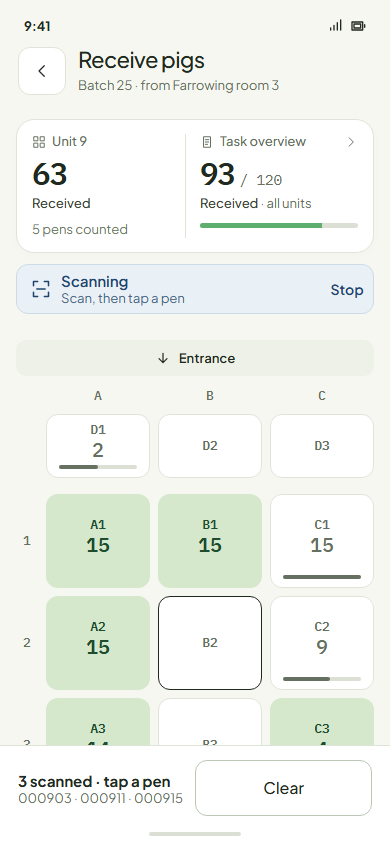
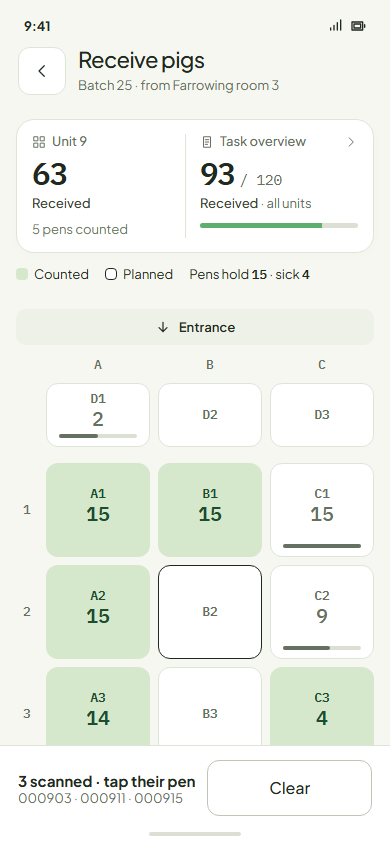
Count: receiving Scan is owned by the footer, as Farrowing's Scan page (Stop scanning; with reads, the count, the tags and Clear); no scan bar over the map

diff --git a/features/count/PRD.md b/features/count/PRD.md
@@ -31,7 +31,7 @@ Reviewed on the Claude Design canvas ([canvas.md](canvas.md)). Ruled and redrawn
 - **Recount is the unit's, with a balance sheet** (owner, 2026-11-03; supersedes the per-pen Review count). *Recount · Unit 7* lists the unit's pens, each with what was found or *Not counted yet*; tapping a pen opens the pen count (all pigs, then ear tags by search or scan), whose *Done* returns to the list. *Count* on a pen page opens the same recount, straight into that pen. *Finish recount* shows the **unit balance sheet**: on record against counted; pigs found in another pen, which move; pigs without ear tags netted pen against pen (D4 −1, D5 +1: balanced), so pigs moved and not updated, or piglets shuffled between pens, stop being losses; and only what the unit can't account for (000803, found in no pen) goes on the batch's balancing sheet. *Save recount*. ([mock 10](mock/mock-10-unit-recount.png), [11](mock/mock-11-unit-balance.png).)
 - **A recount that changes nothing just saves; the balance sheet opens only when the unit's total changed** (owner, 2026-11-03). It is one ledger card in the owner's order: *Counted 60* at the top; each change a door with its signed figure in a tonal tile (*Found from other units +2*, *Not found −1*, the one amber, to the balancing sheet); *On record 59* at the bottom ([11](mock/mock-11-unit-balance.png); each line opens its pigs: [11b](mock/mock-11b-found.png), [11c](mock/mock-11c-not-found.png)). Pigs without ear tags counted in a different pen of the unit than recorded are normal work: the pens are updated and nothing is said. **The recount is drawn on the unit's pen map** (owner: "we should use pen view"): counted pens turn done-green with their count; a pen with pigs still to count shows what the record says; an empty pen says *Empty*; any pen can be counted, an empty one too; a pen not counted when you finish keeps its record (the footer says so: *D5 not counted · Keeps 38 if you finish*) ([10](mock/mock-10-unit-recount.png)).
 - **The pen count asks two questions** (owner, 2026-11-03: titles are questions): *How many pigs are in D4?* (the stepper), then *Which tagged pigs are here?* with *4 found* beside it (search or scan, ticked rows).
-- **Receiving is two parts: the plan, then the count** (owner, 2026-11-03; supersedes receiving pen by pen). *Receive pigs* is a task page like Farrowing's room (owner, 2026-11-03): one header, the task card (this unit's *Received* on the left; *Task overview ›* on the right, across units, where the crew switches unit and ends the task, as in every task). Below, the unit's pen map, drawn from its Farm layout on PenMap (PR 307: Unit 9 is three lanes of four weaner pens with three sick pens by the door, met first; a sick pen's tile is shorter, as its pen is): capacity is said once per pen type (*Pens hold 15 · sick 4*); an empty pen shows only its code; a pen with pigs shows how many and, until it is counted, a fill line for how full it is (owner, 2026-11-03: *9/15* on every tile was an information explosion); the planned pens are outlined, a suggestion only (no number per pen, nothing owed to a pen); pigs may go into any pen. Nothing is recorded while pigs are moving. Once they are in, tap any pen to count it (all pigs, then ear tags); a counted pen turns done-green, a pen off the plan too. What was counted is where the pigs are. *Scan* in the dock keeps the map on screen: scan one pig or a batch, they gather in the footer (*3 scanned · tap a pen*), and tapping a pen puts them in it; this is how sows arrive, each in whichever crate or pen she reached ([14s](mock/mock-14s-receive-scan.png), [14t](mock/mock-14t-receive-placed.png); [13](mock/mock-13-receive-plan.png), [14](mock/mock-14-receive-count.png), [12](mock/mock-12-receive-pen.png)). The map tile showing pigs and a fill line, outlined when planned, is a proposed PenMap variant (*room*). **Pigs to move is the source room's pen map, and a glance** (owner, 2026-11-03: the crew looks once and puts the phone away; no *Receive in Unit 9* button, the move out records nothing; where to on top; a pen that empties says *All*, a pen moving some says *12/13* with the 12 that move big (no icon, no key, no list of pigs that stay); the whole flow is proposed in [transfer-flow.md](transfer-flow.md)): a pen whose pigs all go shows the move glyph (not a tick, which reads as done); a pen sending some shows *12/13*; tapping it opens the pen with a toggle, *Move · 12* and *Stay · 1* ([9](mock/mock-9-transfer-out.png), [9b](mock/mock-9b-pen-move.png), [9c](mock/mock-9c-pen-stay.png)).
+- **Receiving is two parts: the plan, then the count** (owner, 2026-11-03; supersedes receiving pen by pen). *Receive pigs* is a task page like Farrowing's room (owner, 2026-11-03): one header, the task card (this unit's *Received* on the left; *Task overview ›* on the right, across units, where the crew switches unit and ends the task, as in every task). Below, the unit's pen map, drawn from its Farm layout on PenMap (PR 307: Unit 9 is three lanes of four weaner pens with three sick pens by the door, met first; a sick pen's tile is shorter, as its pen is): capacity is said once per pen type (*Pens hold 15 · sick 4*); an empty pen shows only its code; a pen with pigs shows how many and, until it is counted, a fill line for how full it is (owner, 2026-11-03: *9/15* on every tile was an information explosion); the planned pens are outlined, a suggestion only (no number per pen, nothing owed to a pen); pigs may go into any pen. Nothing is recorded while pigs are moving. Once they are in, tap any pen to count it (all pigs, then ear tags); a counted pen turns done-green, a pen off the plan too. What was counted is where the pigs are. *Scan* in the dock keeps the map on screen and the footer takes over, as on Farrowing's Scan page (owner, 2026-11-03: the control stays where Scan was, no scan bar at the top): *Stop scanning* while listening; scan one pig or a batch and the footer is the count and their tags with *Clear* (*3 scanned · tap their pen*); tapping a pen puts them in it (*3 pigs put in B2*) and the footer is *Stop scanning* again; this is how sows arrive, each in whichever crate or pen she reached ([14s](mock/mock-14s-receive-scan.png), [14t](mock/mock-14t-receive-placed.png); [13](mock/mock-13-receive-plan.png), [14](mock/mock-14-receive-count.png), [12](mock/mock-12-receive-pen.png)). The map tile showing pigs and a fill line, outlined when planned, is a proposed PenMap variant (*room*). **Pigs to move is the source room's pen map, and a glance** (owner, 2026-11-03: the crew looks once and puts the phone away; no *Receive in Unit 9* button, the move out records nothing; where to on top; a pen that empties says *All*, a pen moving some says *12/13* with the 12 that move big (no icon, no key, no list of pigs that stay); the whole flow is proposed in [transfer-flow.md](transfer-flow.md)): a pen whose pigs all go shows the move glyph (not a tick, which reads as done); a pen sending some shows *12/13*; tapping it opens the pen with a toggle, *Move · 12* and *Stay · 1* ([9](mock/mock-9-transfer-out.png), [9b](mock/mock-9b-pen-move.png), [9c](mock/mock-9c-pen-stay.png)).
 - **Ending the transfer is Farrowing's End task** (owner, 2026-11-03: "look at how we do it for the farrowing end task"). After receiving, the task closes from *End task*: the heading answers (*Ready to end early* / *Ready to end*); one bar over the batch's pigs, then a row per part: *Received* (done) and *Not arrived* (with the amber "!", as *Leave the batch*; the row says what ending does: *Goes on the balancing sheet*). Never *Still to count*: the planned pens are a suggestion, so a pig is either received or not arrived (owner, 2026-11-03). *Not arrived* opens its pigs: those without ID as one number; those with ID in Fostering's *With ID* picker (search and scan in one box, a read ticks). Ticking a pig that turned up makes the footer *Move to*, to put her in a pen; she leaves *Not arrived*. Nothing else on the page (no *When you end*, no second count card; Farrowing has neither); then the hold ([16b](mock/mock-16b-end-early.png), [16d](mock/mock-16d-not-arrived.png), [16e](mock/mock-16e-not-arrived-move.png), [16c](mock/mock-16c-end-ready.png)). The receiving and End task mocks render against a checkout that has Farrowing's room page and End task (PR 294).
 - **Sex and weight of pigs without ear tags** (owner question): recommended kept on the batch (sex split and the last average weight), never per pen, so a move or count never asks for them.
 
